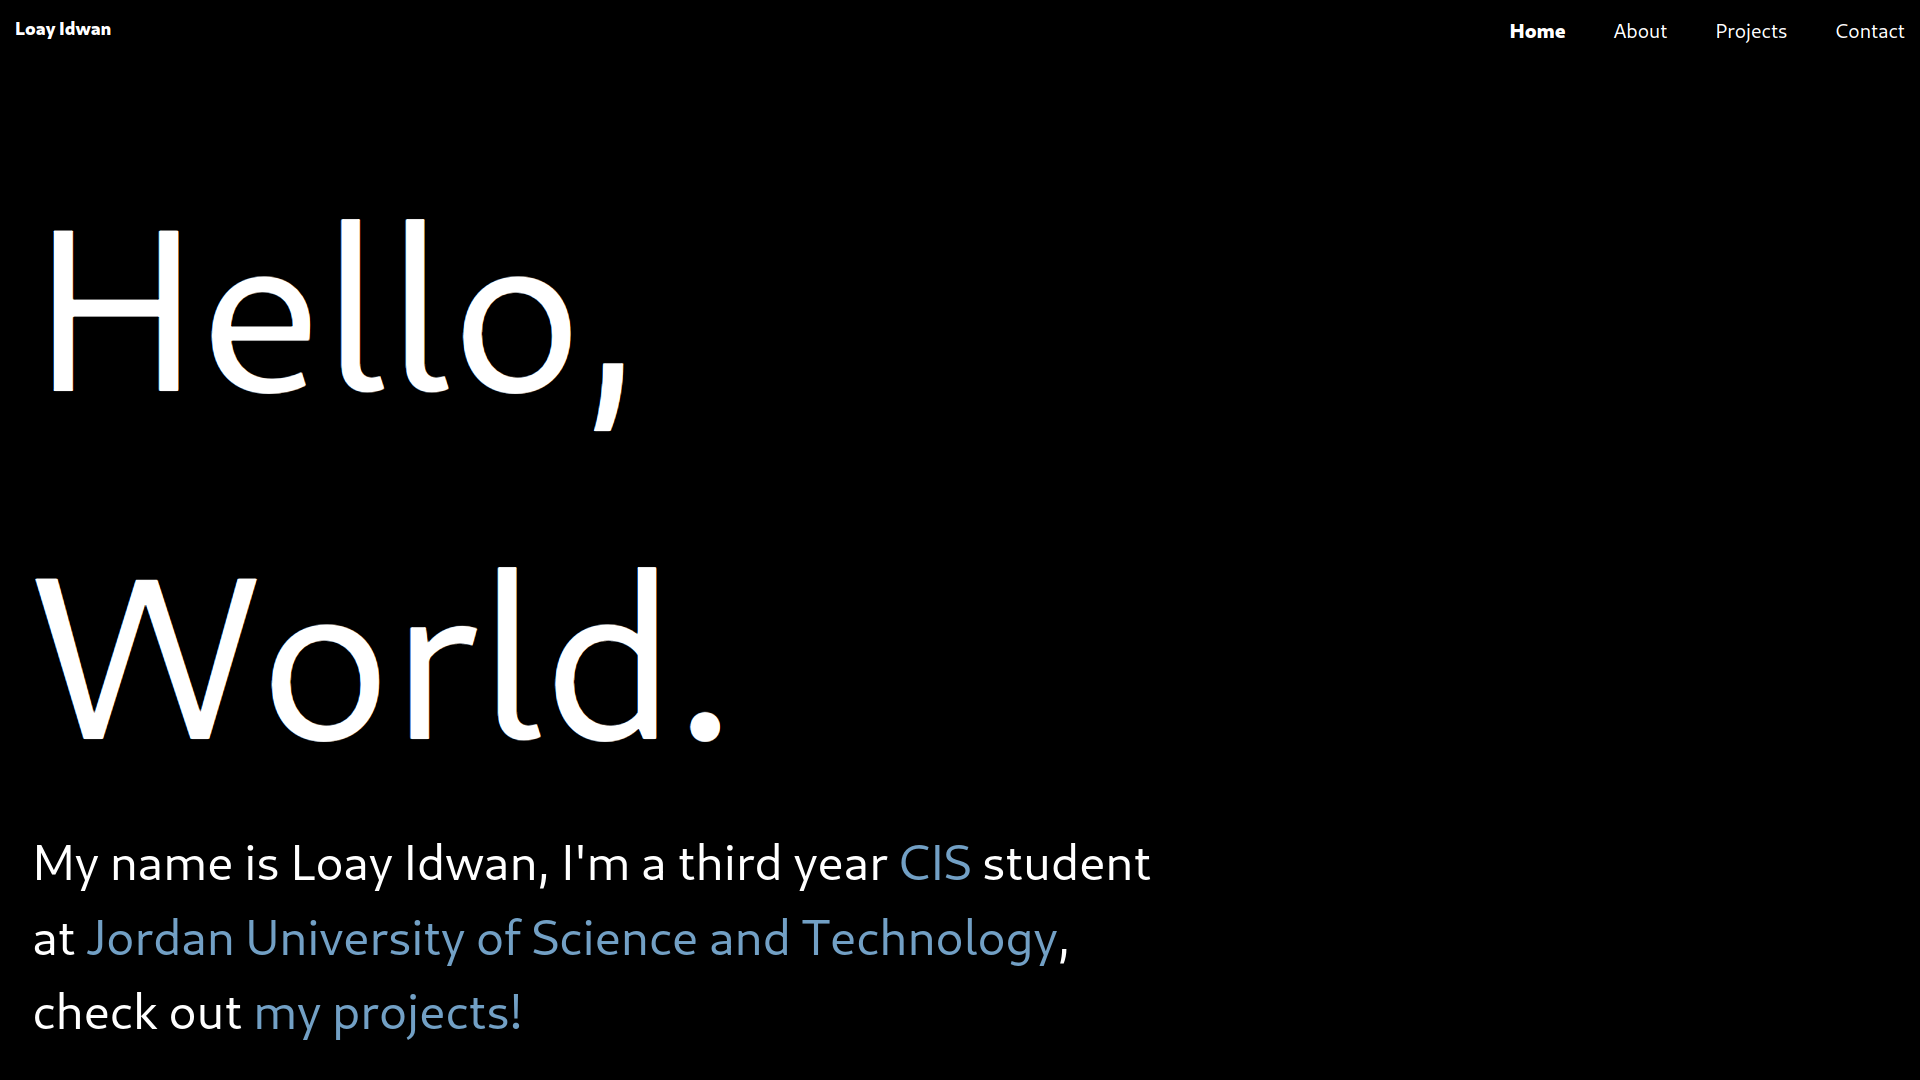
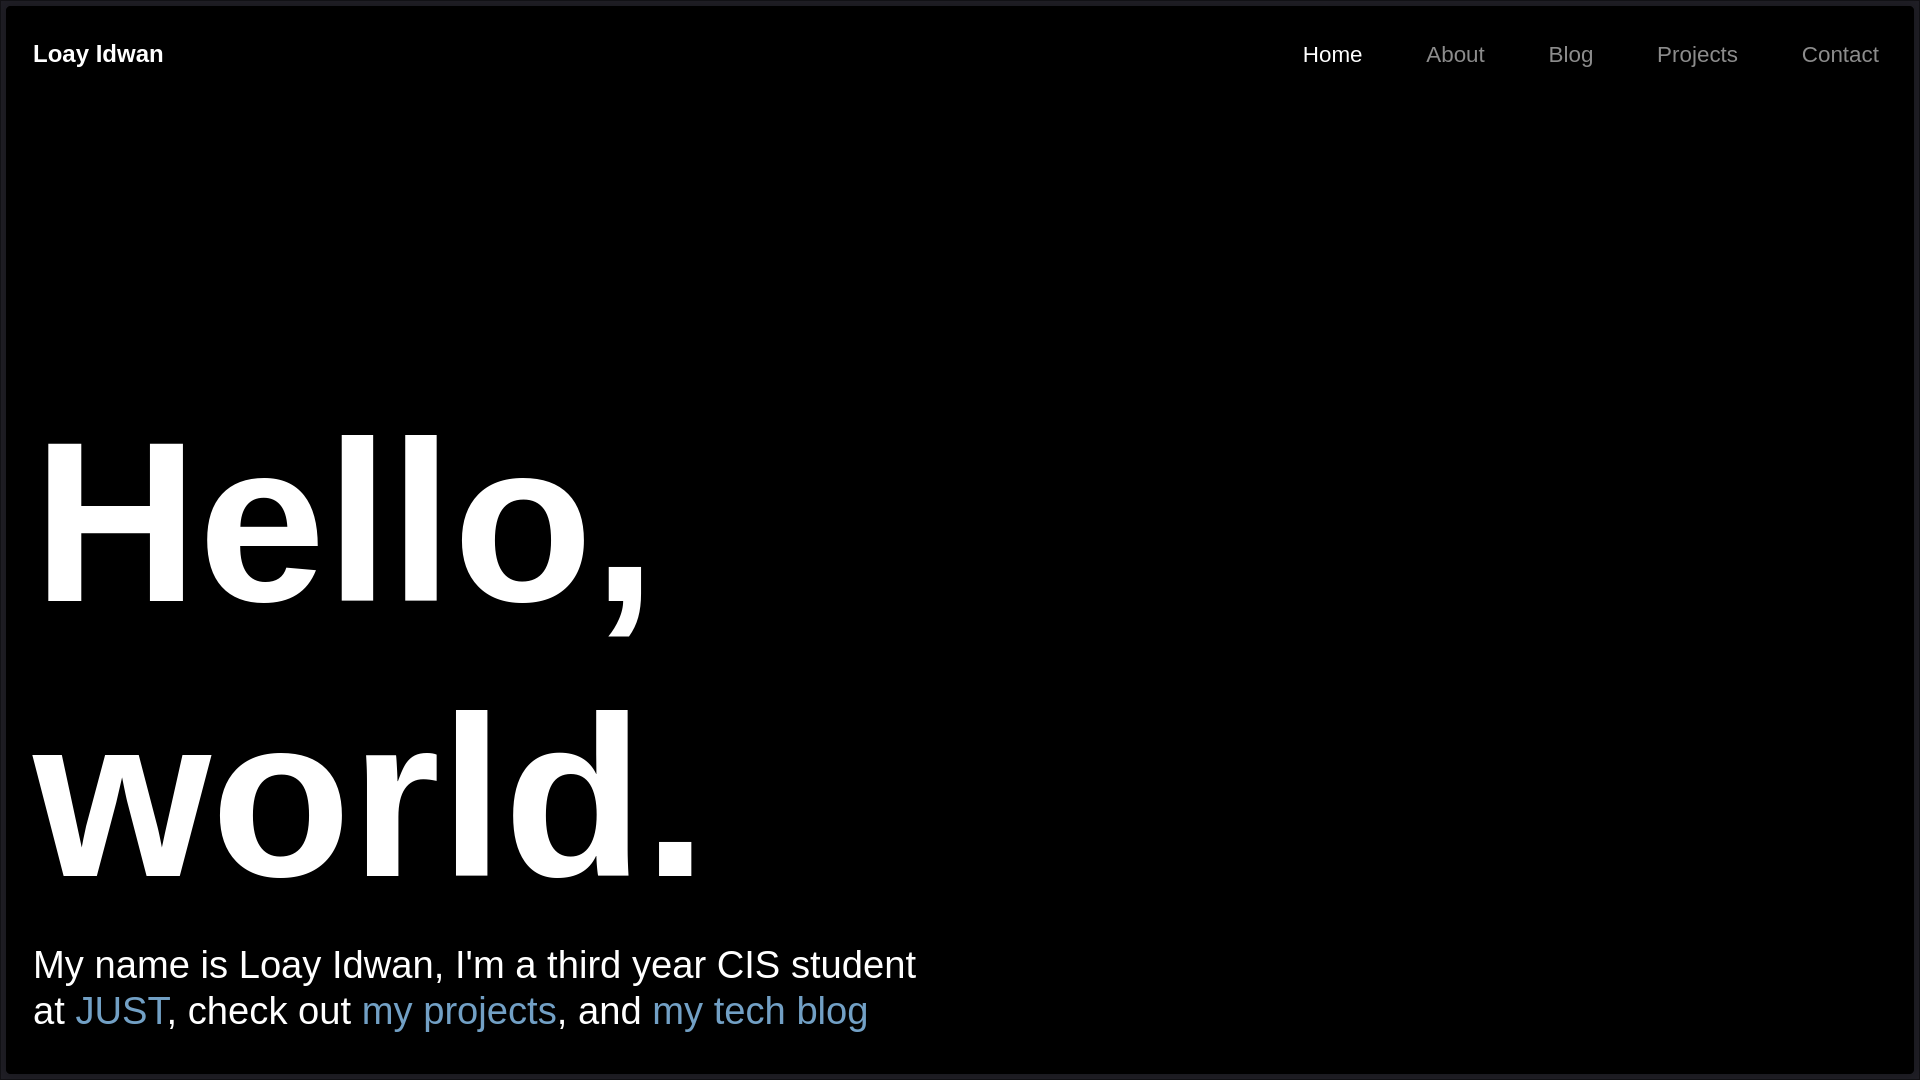
Added updated picture for social media SEO

diff --git a/index.html b/index.html
@@ -15,7 +15,7 @@
     <meta property="og:description" content="Loay's personal portfolio showcasing projects, a Personal Blog, and contact information.">
     <meta property="og:url" content="https://loayidwan.com">
     <meta property="og:type" content="website">
-
+    <meta property="og:image" content="https://loayidwan.com/images/portfolio.png">
     <!-- Twitter Card -->
     <meta name="twitter:card" content="summary_large_image">
     <meta name="twitter:title" content="Loay's Portfolio">
